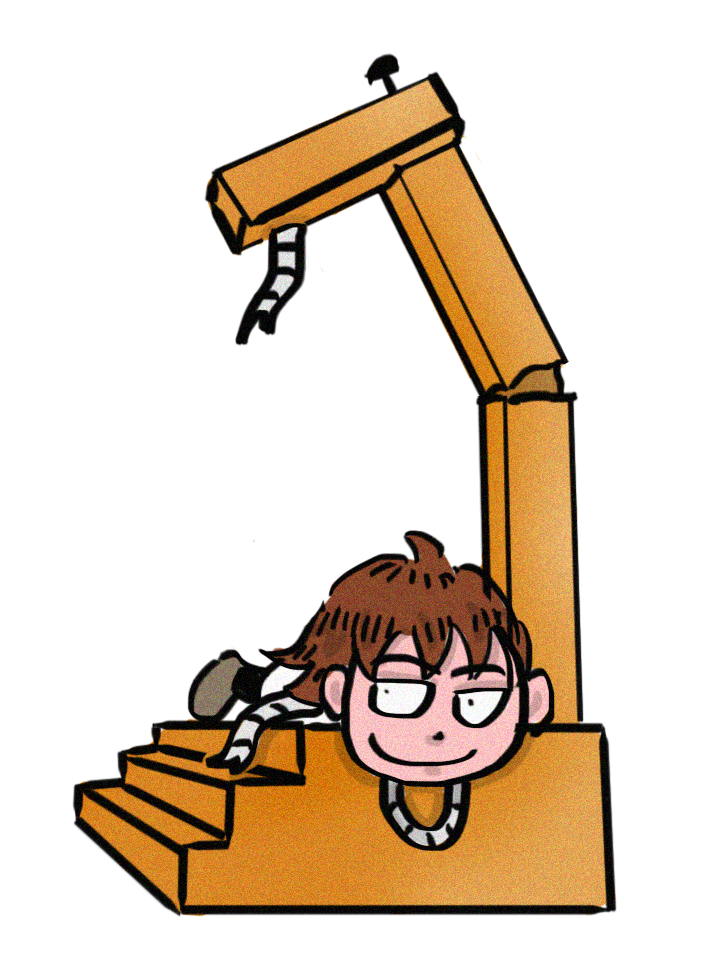
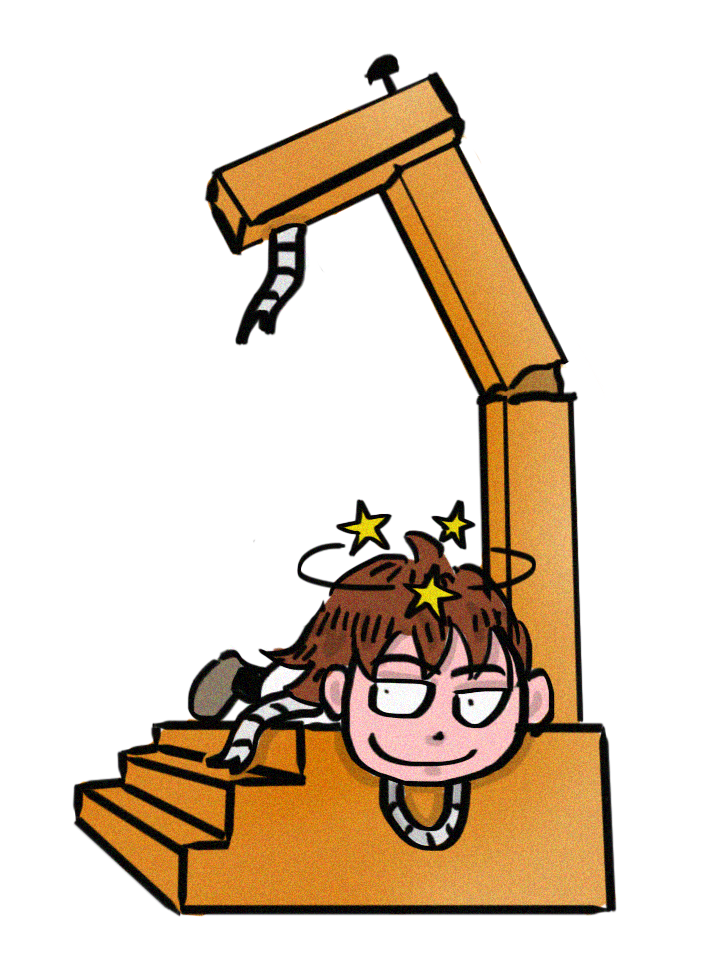
:lipstick: 0.0.7
Inserida a imagem de vitória da partida, alterada a imagem de derrota e inserida a palavra sorteado na tela de derrota.

Changed region(s): [[0.3972, 0.5162, 0.7639, 0.6681], [0.6111, 0.5162, 0.6722, 0.577]]

diff --git a/game/templates/user/game_finished.html b/game/templates/user/game_finished.html
@@ -5,7 +5,7 @@
     <div class="main-header">
         {% if game.win %}
             <h1 class='end-game-title win-title'>Você ganhou!</h1>
-            <img src="" alt="" class='game-over-img end-game-img'>
+            <img src="{% static "game/images/vitoria.png" %}" alt="" class='game-over-img end-game-img'>
         {% else %}
             <h1 class="end-game-title lose-title">Você perdeu!</h1>
             <img src="{% static "game/images/Game Over.png" %}" alt="" class='game-over-img end-game-img'>

diff --git a/game/templates/game/game_over.html b/game/templates/game/game_over.html
@@ -5,6 +5,7 @@
     <div class="end-game-screen">
         <h1 class="end-game-title lose-title">Você perdeu!</h1>
         <img src="{% static "game/images/Game Over.png" %}" alt="" class='game-over-img end-game-img'>
+        <div class="secret-word">{{game.secret_word}}</div>
         {% include "partials/end_game.html" %}
     </div>
 {% endblock main %}

diff --git a/game/templates/game/win.html b/game/templates/game/win.html
@@ -3,6 +3,7 @@
 {% block main %}
     <div class="end-game-screen">
         <h1 class='end-game-title win-title'>Você ganhou!</h1>
+        <img src="{% static "game/images/vitoria.png" %}" alt="" class='game-over-img end-game-img'>
         {% include "partials/end_game.html" %}
     </div>
 {% endblock main %}

diff --git a/game/static/game/styles/main.css b/game/static/game/styles/main.css
@@ -150,6 +150,10 @@ main {
     gap: 1vw;
 }
 
+.secret-word {
+    font-family: 'bubble-butt';
+}
+
 /* Game details */
 .main-header {
     display: flex;

diff --git a/game/views/game.py b/game/views/game.py
@@ -51,7 +51,7 @@ def game(request: HttpRequest, id):
                     game.finished = True
                     game.finished_at = timezone.now()
                     game.save()
-                    return redirect('forca:game_over')
+                    return redirect('forca:game_over', game_id=game.id)
     
 
     context = {
@@ -95,8 +95,12 @@ def theme(request: HttpRequest):
 
 
 @login_required(login_url='forca:login')
-def game_over(request: HttpRequest):
-    return render(request, 'game/game_over.html')
+def game_over(request: HttpRequest, game_id):
+    game = get_object_or_404(Game, id=game_id)
+    context = {
+        'game': game,
+    }
+    return render(request, 'game/game_over.html', context=context)
 
 
 @login_required(login_url='forca:login')

diff --git a/game/urls.py b/game/urls.py
@@ -16,7 +16,7 @@ urlpatterns = [
     path('theme/', views.theme, name='theme'),
     path('new_game/', views.createGame, name='new_game'),
     path('game/<int:id>/', views.game, name='game'),
-    path('game_over/', views.game_over, name='game_over'),
+    path('game_over/<int:game_id>/', views.game_over, name='game_over'),
     path('win/', views.win, name='win'),
 
     # path('load_all', views.load_all, name='load_all'),

diff --git a/game/views/user_interface.py b/game/views/user_interface.py
@@ -41,6 +41,7 @@ def format_timedelta(td):
         
         return f"{hours}:{minutes}:{seconds}"
 
+@login_required(login_url='forca:login')
 def games(request:HttpRequest):
     games = Game.objects.filter(owner=request.user)
 
